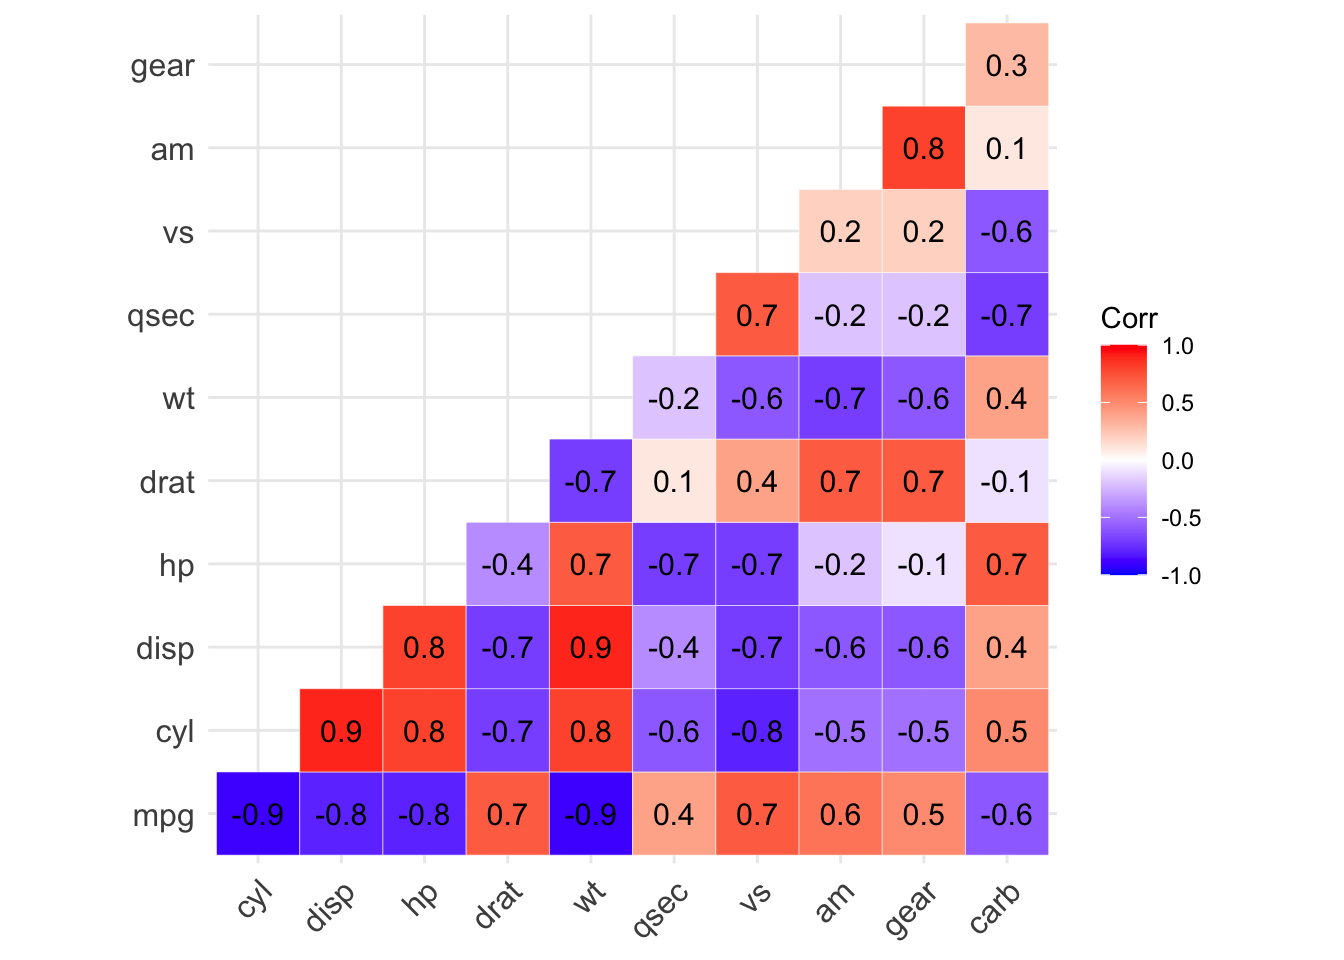
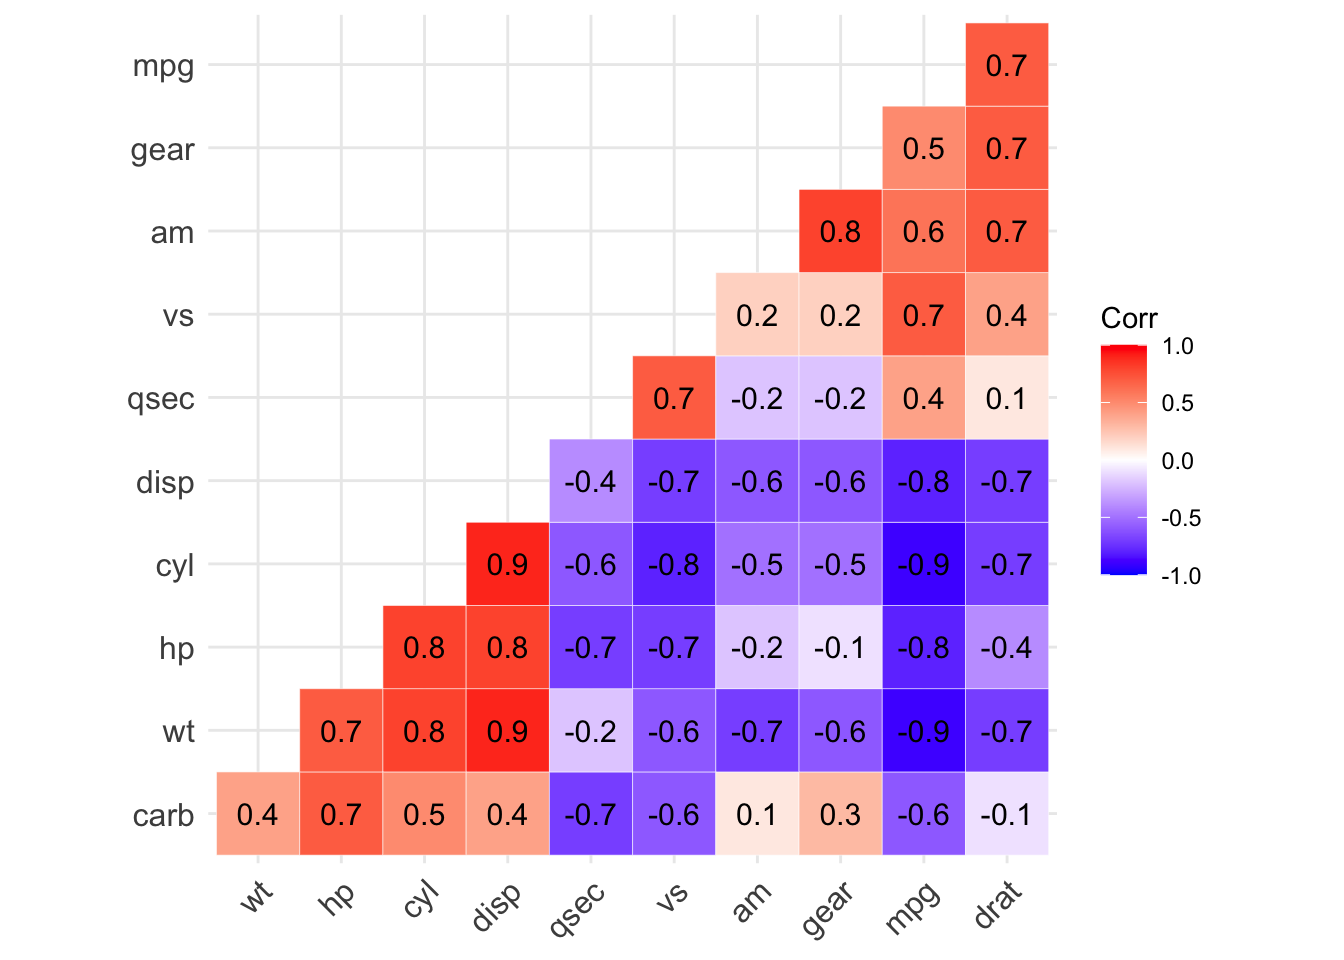
.

diff --git a/season_3/quiz/03.babynames/mpg.html b/season_3/quiz/03.babynames/mpg.html
@@ -151,23 +151,23 @@ pre > code.sourceCode > span > a:first-child::before { text-decoration: underlin
 <span id="cb4-4"><a href="#cb4-4" aria-hidden="true" tabindex="-1"></a>  <span class="fu">gt</span>() <span class="sc">|&gt;</span> </span>
 <span id="cb4-5"><a href="#cb4-5" aria-hidden="true" tabindex="-1"></a>  <span class="fu">tab_header</span>(<span class="at">title =</span> <span class="st">'MPG'</span>, <span class="at">subtitle =</span> <span class="st">'drv * class 면분할'</span>)</span></code><button title="Copy to Clipboard" class="code-copy-button"><i class="bi"></i></button></pre></div>
 <div class="cell-output-display">
-<div id="ivoowvushl" style="padding-left:0px;padding-right:0px;padding-top:10px;padding-bottom:10px;overflow-x:auto;overflow-y:auto;width:auto;height:auto;">
-<style>#ivoowvushl table {
+<div id="owycnckndh" style="padding-left:0px;padding-right:0px;padding-top:10px;padding-bottom:10px;overflow-x:auto;overflow-y:auto;width:auto;height:auto;">
+<style>#owycnckndh table {
   font-family: system-ui, 'Segoe UI', Roboto, Helvetica, Arial, sans-serif, 'Apple Color Emoji', 'Segoe UI Emoji', 'Segoe UI Symbol', 'Noto Color Emoji';
   -webkit-font-smoothing: antialiased;
   -moz-osx-font-smoothing: grayscale;
 }
 
-#ivoowvushl thead, #ivoowvushl tbody, #ivoowvushl tfoot, #ivoowvushl tr, #ivoowvushl td, #ivoowvushl th {
+#owycnckndh thead, #owycnckndh tbody, #owycnckndh tfoot, #owycnckndh tr, #owycnckndh td, #owycnckndh th {
   border-style: none;
 }
 
-#ivoowvushl p {
+#owycnckndh p {
   margin: 0;
   padding: 0;
 }
 
-#ivoowvushl .gt_table {
+#owycnckndh .gt_table {
   display: table;
   border-collapse: collapse;
   line-height: normal;
@@ -193,12 +193,12 @@ pre > code.sourceCode > span > a:first-child::before { text-decoration: underlin
   border-left-color: #D3D3D3;
 }
 
-#ivoowvushl .gt_caption {
+#owycnckndh .gt_caption {
   padding-top: 4px;
   padding-bottom: 4px;
 }
 
-#ivoowvushl .gt_title {
+#owycnckndh .gt_title {
   color: #333333;
   font-size: 125%;
   font-weight: initial;
@@ -210,7 +210,7 @@ pre > code.sourceCode > span > a:first-child::before { text-decoration: underlin
   border-bottom-width: 0;
 }
 
-#ivoowvushl .gt_subtitle {
+#owycnckndh .gt_subtitle {
   color: #333333;
   font-size: 85%;
   font-weight: initial;
@@ -222,7 +222,7 @@ pre > code.sourceCode > span > a:first-child::before { text-decoration: underlin
   border-top-width: 0;
 }
 
-#ivoowvushl .gt_heading {
+#owycnckndh .gt_heading {
   background-color: #FFFFFF;
   text-align: center;
   border-bottom-color: #FFFFFF;
@@ -234,13 +234,13 @@ pre > code.sourceCode > span > a:first-child::before { text-decoration: underlin
   border-right-color: #D3D3D3;
 }
 
-#ivoowvushl .gt_bottom_border {
+#owycnckndh .gt_bottom_border {
   border-bottom-style: solid;
   border-bottom-width: 2px;
   border-bottom-color: #D3D3D3;
 }
 
-#ivoowvushl .gt_col_headings {
+#owycnckndh .gt_col_headings {
   border-top-style: solid;
   border-top-width: 2px;
   border-top-color: #D3D3D3;
@@ -255,7 +255,7 @@ pre > code.sourceCode > span > a:first-child::before { text-decoration: underlin
   border-right-color: #D3D3D3;
 }
 
-#ivoowvushl .gt_col_heading {
+#owycnckndh .gt_col_heading {
   color: #333333;
   background-color: #FFFFFF;
   font-size: 100%;
@@ -275,7 +275,7 @@ pre > code.sourceCode > span > a:first-child::before { text-decoration: underlin
   overflow-x: hidden;
 }
 
-#ivoowvushl .gt_column_spanner_outer {
+#owycnckndh .gt_column_spanner_outer {
   color: #333333;
   background-color: #FFFFFF;
   font-size: 100%;
@@ -287,15 +287,15 @@ pre > code.sourceCode > span > a:first-child::before { text-decoration: underlin
   padding-right: 4px;
 }
 
-#ivoowvushl .gt_column_spanner_outer:first-child {
+#owycnckndh .gt_column_spanner_outer:first-child {
   padding-left: 0;
 }
 
-#ivoowvushl .gt_column_spanner_outer:last-child {
+#owycnckndh .gt_column_spanner_outer:last-child {
   padding-right: 0;
 }
 
-#ivoowvushl .gt_column_spanner {
+#owycnckndh .gt_column_spanner {
   border-bottom-style: solid;
   border-bottom-width: 2px;
   border-bottom-color: #D3D3D3;
@@ -307,11 +307,11 @@ pre > code.sourceCode > span > a:first-child::before { text-decoration: underlin
   width: 100%;
 }
 
-#ivoowvushl .gt_spanner_row {
+#owycnckndh .gt_spanner_row {
   border-bottom-style: hidden;
 }
 
-#ivoowvushl .gt_group_heading {
+#owycnckndh .gt_group_heading {
   padding-top: 8px;
   padding-bottom: 8px;
   padding-left: 5px;
@@ -337,7 +337,7 @@ pre > code.sourceCode > span > a:first-child::before { text-decoration: underlin
   text-align: left;
 }
 
-#ivoowvushl .gt_empty_group_heading {
+#owycnckndh .gt_empty_group_heading {
   padding: 0.5px;
   color: #333333;
   background-color: #FFFFFF;
@@ -352,15 +352,15 @@ pre > code.sourceCode > span > a:first-child::before { text-decoration: underlin
   vertical-align: middle;
 }
 
-#ivoowvushl .gt_from_md > :first-child {
+#owycnckndh .gt_from_md > :first-child {
   margin-top: 0;
 }
 
-#ivoowvushl .gt_from_md > :last-child {
+#owycnckndh .gt_from_md > :last-child {
   margin-bottom: 0;
 }
 
-#ivoowvushl .gt_row {
+#owycnckndh .gt_row {
   padding-top: 8px;
   padding-bottom: 8px;
   padding-left: 5px;
@@ -379,7 +379,7 @@ pre > code.sourceCode > span > a:first-child::before { text-decoration: underlin
   overflow-x: hidden;
 }
 
-#ivoowvushl .gt_stub {
+#owycnckndh .gt_stub {
   color: #333333;
   background-color: #FFFFFF;
   font-size: 100%;
@@ -392,7 +392,7 @@ pre > code.sourceCode > span > a:first-child::before { text-decoration: underlin
   padding-right: 5px;
 }
 
-#ivoowvushl .gt_stub_row_group {
+#owycnckndh .gt_stub_row_group {
   color: #333333;
   background-color: #FFFFFF;
   font-size: 100%;
@@ -406,15 +406,15 @@ pre > code.sourceCode > span > a:first-child::before { text-decoration: underlin
   vertical-align: top;
 }
 
-#ivoowvushl .gt_row_group_first td {
+#owycnckndh .gt_row_group_first td {
   border-top-width: 2px;
 }
 
-#ivoowvushl .gt_row_group_first th {
+#owycnckndh .gt_row_group_first th {
   border-top-width: 2px;
 }
 
-#ivoowvushl .gt_summary_row {
+#owycnckndh .gt_summary_row {
   color: #333333;
   background-color: #FFFFFF;
   text-transform: inherit;
@@ -424,16 +424,16 @@ pre > code.sourceCode > span > a:first-child::before { text-decoration: underlin
   padding-right: 5px;
 }
 
-#ivoowvushl .gt_first_summary_row {
+#owycnckndh .gt_first_summary_row {
   border-top-style: solid;
   border-top-color: #D3D3D3;
 }
 
-#ivoowvushl .gt_first_summary_row.thick {
+#owycnckndh .gt_first_summary_row.thick {
   border-top-width: 2px;
 }
 
-#ivoowvushl .gt_last_summary_row {
+#owycnckndh .gt_last_summary_row {
   padding-top: 8px;
   padding-bottom: 8px;
   padding-left: 5px;
@@ -443,7 +443,7 @@ pre > code.sourceCode > span > a:first-child::before { text-decoration: underlin
   border-bottom-color: #D3D3D3;
 }
 
-#ivoowvushl .gt_grand_summary_row {
+#owycnckndh .gt_grand_summary_row {
   color: #333333;
   background-color: #FFFFFF;
   text-transform: inherit;
@@ -453,7 +453,7 @@ pre > code.sourceCode > span > a:first-child::before { text-decoration: underlin
   padding-right: 5px;
 }
 
-#ivoowvushl .gt_first_grand_summary_row {
+#owycnckndh .gt_first_grand_summary_row {
   padding-top: 8px;
   padding-bottom: 8px;
   padding-left: 5px;
@@ -463,7 +463,7 @@ pre > code.sourceCode > span > a:first-child::before { text-decoration: underlin
   border-top-color: #D3D3D3;
 }
 
-#ivoowvushl .gt_last_grand_summary_row_top {
+#owycnckndh .gt_last_grand_summary_row_top {
   padding-top: 8px;
   padding-bottom: 8px;
   padding-left: 5px;
@@ -473,11 +473,11 @@ pre > code.sourceCode > span > a:first-child::before { text-decoration: underlin
   border-bottom-color: #D3D3D3;
 }
 
-#ivoowvushl .gt_striped {
+#owycnckndh .gt_striped {
   background-color: rgba(128, 128, 128, 0.05);
 }
 
-#ivoowvushl .gt_table_body {
+#owycnckndh .gt_table_body {
   border-top-style: solid;
   border-top-width: 2px;
   border-top-color: #D3D3D3;
@@ -486,7 +486,7 @@ pre > code.sourceCode > span > a:first-child::before { text-decoration: underlin
   border-bottom-color: #D3D3D3;
 }
 
-#ivoowvushl .gt_footnotes {
+#owycnckndh .gt_footnotes {
   color: #333333;
   background-color: #FFFFFF;
   border-bottom-style: none;
@@ -500,7 +500,7 @@ pre > code.sourceCode > span > a:first-child::before { text-decoration: underlin
   border-right-color: #D3D3D3;
 }
 
-#ivoowvushl .gt_footnote {
+#owycnckndh .gt_footnote {
   margin: 0px;
   font-size: 90%;
   padding-top: 4px;
@@ -509,7 +509,7 @@ pre > code.sourceCode > span > a:first-child::before { text-decoration: underlin
   padding-right: 5px;
 }
 
-#ivoowvushl .gt_sourcenotes {
+#owycnckndh .gt_sourcenotes {
   color: #333333;
   background-color: #FFFFFF;
   border-bottom-style: none;
@@ -523,7 +523,7 @@ pre > code.sourceCode > span > a:first-child::before { text-decoration: underlin
   border-right-color: #D3D3D3;
 }
 
-#ivoowvushl .gt_sourcenote {
+#owycnckndh .gt_sourcenote {
   font-size: 90%;
   padding-top: 4px;
   padding-bottom: 4px;
@@ -531,63 +531,63 @@ pre > code.sourceCode > span > a:first-child::before { text-decoration: underlin
   padding-right: 5px;
 }
 
-#ivoowvushl .gt_left {
+#owycnckndh .gt_left {
   text-align: left;
 }
 
-#ivoowvushl .gt_center {
+#owycnckndh .gt_center {
   text-align: center;
 }
 
-#ivoowvushl .gt_right {
+#owycnckndh .gt_right {
   text-align: right;
   font-variant-numeric: tabular-nums;
 }
 
-#ivoowvushl .gt_font_normal {
+#owycnckndh .gt_font_normal {
   font-weight: normal;
 }
 
-#ivoowvushl .gt_font_bold {
+#owycnckndh .gt_font_bold {
   font-weight: bold;
 }
 
-#ivoowvushl .gt_font_italic {
+#owycnckndh .gt_font_italic {
   font-style: italic;
 }
 
-#ivoowvushl .gt_super {
+#owycnckndh .gt_super {
   font-size: 65%;
 }
 
-#ivoowvushl .gt_footnote_marks {
+#owycnckndh .gt_footnote_marks {
   font-size: 75%;
   vertical-align: 0.4em;
   position: initial;
 }
 
-#ivoowvushl .gt_asterisk {
+#owycnckndh .gt_asterisk {
   font-size: 100%;
   vertical-align: 0;
 }
 
-#ivoowvushl .gt_indent_1 {
+#owycnckndh .gt_indent_1 {
   text-indent: 5px;
 }
 
-#ivoowvushl .gt_indent_2 {
+#owycnckndh .gt_indent_2 {
   text-indent: 10px;
 }
 
-#ivoowvushl .gt_indent_3 {
+#owycnckndh .gt_indent_3 {
   text-indent: 15px;
 }
 
-#ivoowvushl .gt_indent_4 {
+#owycnckndh .gt_indent_4 {
   text-indent: 20px;
 }
 
-#ivoowvushl .gt_indent_5 {
+#owycnckndh .gt_indent_5 {
   text-indent: 25px;
 }
 </style>
@@ -911,7 +911,7 @@ pre > code.sourceCode > span > a:first-child::before { text-decoration: underlin
 <div class="cell">
 <div class="sourceCode cell-code" id="cb23"><pre class="sourceCode r code-with-copy"><code class="sourceCode r"><span id="cb23-1"><a href="#cb23-1" aria-hidden="true" tabindex="-1"></a>corr <span class="ot">&lt;-</span> <span class="fu">round</span>(<span class="fu">cor</span>(mtcars), <span class="dv">1</span>)</span>
 <span id="cb23-2"><a href="#cb23-2" aria-hidden="true" tabindex="-1"></a><span class="fu">ggcorrplot</span>(corr,</span>
-<span id="cb23-3"><a href="#cb23-3" aria-hidden="true" tabindex="-1"></a>           <span class="at">hc.order =</span> F,</span>
+<span id="cb23-3"><a href="#cb23-3" aria-hidden="true" tabindex="-1"></a>           <span class="at">hc.order =</span> T,</span>
 <span id="cb23-4"><a href="#cb23-4" aria-hidden="true" tabindex="-1"></a>           <span class="at">type =</span> <span class="st">"lower"</span>,</span>
 <span id="cb23-5"><a href="#cb23-5" aria-hidden="true" tabindex="-1"></a>           <span class="at">lab =</span> T,</span>
 <span id="cb23-6"><a href="#cb23-6" aria-hidden="true" tabindex="-1"></a>           <span class="at">outline.color =</span> <span class="st">"white"</span>)</span></code><button title="Copy to Clipboard" class="code-copy-button"><i class="bi"></i></button></pre></div>
@@ -1002,7 +1002,7 @@ pre > code.sourceCode > span > a:first-child::before { text-decoration: underlin
 <h3 class="anchored" data-anchor-id="filter-str_detect">filter &amp; str_detect</h3>
 <div class="cell">
 <div class="sourceCode cell-code" id="cb34"><pre class="sourceCode r code-with-copy"><code class="sourceCode r"><span id="cb34-1"><a href="#cb34-1" aria-hidden="true" tabindex="-1"></a>gapminder <span class="sc">|&gt;</span> </span>
-<span id="cb34-2"><a href="#cb34-2" aria-hidden="true" tabindex="-1"></a>  <span class="fu">filter</span>(<span class="fu">str_detect</span>(gapminder<span class="sc">$</span>country, <span class="st">'orea'</span>) <span class="sc">&gt;</span> <span class="dv">0</span>)</span></code><button title="Copy to Clipboard" class="code-copy-button"><i class="bi"></i></button></pre></div>
+<span id="cb34-2"><a href="#cb34-2" aria-hidden="true" tabindex="-1"></a>  <span class="fu">filter</span>(<span class="fu">str_detect</span>(gapminder<span class="sc">$</span>country, <span class="st">'orea'</span>) <span class="sc">&gt;</span> <span class="dv">0</span>) </span></code><button title="Copy to Clipboard" class="code-copy-button"><i class="bi"></i></button></pre></div>
 <div class="cell-output cell-output-stdout">
 <pre><code># A tibble: 24 × 6
    country          continent  year lifeExp      pop gdpPercap
